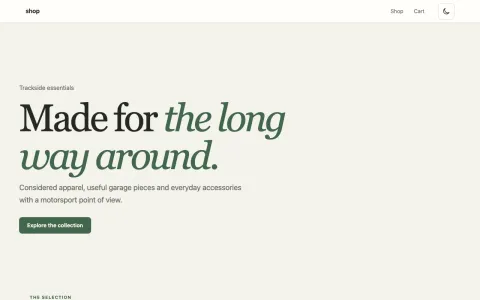
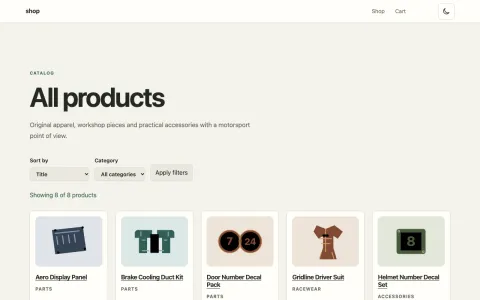
Refresh the gallery for the root shop catalog and default theme placement
Capture both live previews and their responsive variants. Describe native catalog filtering and SQLite-compatible server data.

diff --git a/docs/content/templates.md b/docs/content/templates.md
@@ -30,7 +30,7 @@ A company site with services, team information, and contact details. Run `npm cr
 
 ### Shop
 
-A sample storefront with a product catalog and a simulated cart. Run `npm create bascik my-site -- --template shop`.
+A sample storefront that opens directly to a server-rendered product catalog, with native filters, SQLite-compatible data, and a simulated cart. Run `npm create bascik my-site -- --template shop`.
 
 ### Reports
 
